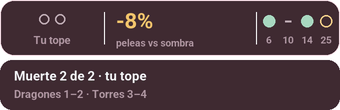
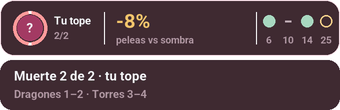
Sombra con los renders del lienzo «Base LOL»
Los renders de Overlay_Vino entran a la barra Sombra sin cambiar qué
significa cada zona y sin sus textos en imperativo («No pelees»):
- Zona Regla: tu retrato con el anillo partido en tantos tramos como tu
  tope; cada muerte del 14 al 25 apaga uno en rojo y, sobre el tope, el
  retrato se apaga (gris). Al lado, «Tu tope» y la cuenta (0/2).
- Zona Sombra: el minion caster (o espadas desde el 14) en un anillo que
  se llena hacia tu sombra; el número con signo al lado y la etiqueta se
  achica antes de cortarse. Sin sombra, el número y el trazo de antes.
- lienzo.pintar recibe icono() (la caché de imágenes de HTC); la franja
  ya lo pasa en su proceso. Referencias rehechas; prueba de que se usan.

797 pruebas OK; 49 replays OK; humo del .exe con franja OK; visto en
pantalla con dev_franja.

Changed region(s): [[0.0294, 0.0818, 0.2647, 0.4091], [0.3235, 0.3273, 0.5882, 0.4364], [0.3529, 0.1091, 0.4706, 0.2727]]

diff --git a/scripts/lienzo.py b/scripts/lienzo.py
@@ -1,7 +1,7 @@
 """El dibujo de la franja Sombra: una barra de 340×56 (a 1080p) con 3 zonas que nunca cambian de lugar ni de significado
 (regla · sombra · marcas), más el renglón (340×28) o el panel al morir (340×76) pegados debajo. Pillow, a 2× y reducido.
 Recibe la escena de momentos.paso y no decide nada: solo dibuja."""
-from overlay import ROSA, ROSA2, ROJO, SALVIA, ORO, TXT, ETQ, _fuente
+from overlay import ROSA, ROSA2, ROJO, SALVIA, ORO, TXT, ETQ, _fuente, _png, _retrato
 
 ANCHO, ALTO, RENGLON, PANEL, SEP = 340, 56, 28, 50, 4
 CARTA_W, CARTA_H = 420, 104  # la carta de la pantalla de carga: 3 renglones al centro abajo (4 con el plan de rol: +24)
@@ -18,8 +18,9 @@ def alto(escena):
     return ALTO + SEP + RENGLON if escena.get("renglon") else ALTO
 
 
-def pintar(escena, esc=1.0):
-    """RGBA de ANCHO×alto(escena) por esc."""
+def pintar(escena, esc=1.0, icono=None):
+    """RGBA de ANCHO×alto(escena) por esc. icono(tipo, nombre) -> PNG: los renders del lienzo «Base LOL» (tu retrato y el minion
+    caster); sin él, la inicial del campeón y el anillo solo."""
     from PIL import Image, ImageDraw
     S = 2; k = lambda v: round(v * esc * S)
     W, H = round(ANCHO * esc), round(alto(escena) * esc)
@@ -28,21 +29,35 @@ def pintar(escena, esc=1.0):
     for x in (Z1, Z2): d.line((k(x), k(12), k(x), k(ALTO - 12)), fill=(255, 255, 255, 28), width=max(1, k(1)))
     f11, f10 = _fuente(k(11)), _fuente(k(10))
 
-    r = escena["regla"]  # 1. Regla: una ficha por muerte de tu tope; se apaga una con cada muerte del tramo
-    n, fx = max(1, min(5, r["tope"])), k(10)
-    x0 = k(Z1 / 2) - (n * fx + (n - 1) * k(6)) / 2
+    cy, R = k(ALTO / 2), k(17)
+    r = escena["regla"]  # 1. Regla: tu retrato con el anillo partido en tramos (render «MIN 14–25»); cada muerte del tramo apaga uno
+    cx, n = k(30), max(1, min(5, r["tope"]))
+    caja = (cx - R, cy - R, cx + R, cy + R); paso = 360 / n
+    d.ellipse(caja, outline=(255, 255, 255, 20), width=k(3))
     for i in range(n):
-        x = x0 + i * (fx + k(6)); caja = (x, k(14), x + fx, k(14) + fx)
-        if i < n - r["apagadas"]: d.ellipse(caja, fill=COL.get(r["color"], ROSA2) + (255,))
-        else: d.ellipse(caja, outline=(COL["rojo"] if r["color"] == "rojo" else GRIS) + (200,), width=max(1, k(1.5)))
-    d.text((k(Z1 / 2), k(40)), r["etq"], font=f11, fill=GRIS + (255,), anchor="mm")
+        vivo = i < n - r["apagadas"]
+        col = COL.get(r["color"], ROSA2) + (255,) if vivo and r["color"] != "rojo" else ROJO + (217,)
+        d.arc(caja, -90 + i * paso + (6 if n > 1 else 0), -90 + (i + 1) * paso - (6 if n > 1 else 0), fill=col, width=k(3.5))
+    im.alpha_composite(_retrato(escena.get("campeon"), k(26), icono, r["color"] == "rojo"), (cx - k(13), cy - k(13)))  # sobre tu tope: el retrato se apaga
+    lineas = r["etq"].split(" · ") if " · " in r["etq"] else [r["etq"], f"{r['apagadas']}/{r['tope']}"]
+    for j, t in enumerate(lineas[:2]):
+        d.text((k(54), cy + k((j - 0.5) * 15)), t, font=f11 if j == 0 else f10, fill=(TXT if j == 0 else GRIS) + (255,), anchor="lm")
 
-    s = escena["sombra"]  # 2. Sombra: número grande con signo, etiqueta y el trazo de los últimos minutos
-    f22 = _fuente(k(22))
-    d.text((k(Z1 + 12), k(21)), s["num"], font=f22, fill=COL.get(s["color"], TXT) + (255,), anchor="lm")
-    d.text((k(Z1 + 12), k(43)), s["etq"], font=f10, fill=GRIS + (255,), anchor="lm")
-    x_tr = max(k(Z1 + 64), k(Z1 + 12) + d.textlength(s["num"], font=f22) + k(10))  # el trazo nunca pisa el número
-    if s.get("trazo") and x_tr < k(Z2 - 40): _trazo(d, s["trazo"], (x_tr, k(13), k(Z2 - 10), k(29)), k)
+    s = escena["sombra"]  # 2. Sombra: el minion (o las espadas desde el 14) en un anillo que se llena hacia tu sombra; el número con signo
+    x_txt = Z1 + 12
+    if s.get("icono"):
+        cx = k(Z1 + 30); caja = (cx - R, cy - R, cx + R, cy + R)
+        d.ellipse(caja, outline=(255, 255, 255, 26), width=k(3))
+        if s.get("anillo"): d.arc(caja, -90, -90 + 360 * max(0.0, min(1.0, s["anillo"])), fill=COL.get(s["color"], ROSA2) + (255,), width=k(3))
+        if s["icono"] == "minion" and (ic := _png(icono, "minion", "caster", k(28))): im.alpha_composite(ic, (cx - k(14), cy - k(14)))
+        elif s["icono"] == "espadas" or s["icono"] == "minion":  # sin el render: dos espadas cruzadas
+            for (x1, y1), (x2, y2) in (((-7, 7), (7, -7)), ((-7, -7), (7, 7))): d.line((cx + k(x1), cy + k(y1), cx + k(x2), cy + k(y2)), fill=ROSA2 + (255,), width=k(2))
+        x_txt = Z1 + 56
+    d.text((k(x_txt), k(21)), s["num"], font=_fuente(k(20)), fill=COL.get(s["color"], TXT) + (255,), anchor="lm")
+    px = 10
+    while px > 8 and d.textlength(s["etq"], font=_fuente(k(px))) > k(Z2 - 6 - x_txt): px -= 1  # «peleas vs sombra de mid» cabe sin cortarse
+    d.text((k(x_txt), k(40)), s["etq"], font=_fuente(k(px)), fill=GRIS + (255,), anchor="lm")
+    if s.get("trazo") and not s.get("icono"): _trazo(d, s["trazo"], (k(Z1 + 72), k(13), k(Z2 - 10), k(29)), k)  # sin anillo, el trazo de antes
 
     roja = r["color"] == "rojo"  # 3. Marcas: solo un elemento rojo a la vez en toda la barra
     for i, m in enumerate(escena["marcas"]):

diff --git a/scripts/momentos.py b/scripts/momentos.py
@@ -154,11 +154,13 @@ def _zona_sombra(e, foto, g, t):
         s = _curva(sb["cs"], t)
         if s is None or _cs(foto) is None: return {"num": "—", "etq": f"CS vs {de}", "color": "gris", "trazo": None}
         d = round((_cs(foto) - s) / 5) * 5  # en pasos de 5: el CS en vivo no da más precisión
-        return {"num": f"{d:+d}" if d else "=", "etq": f"CS vs {de}", "color": "salvia" if d >= 0 else "oro", "trazo": trazo}
+        return {"num": f"{d:+d}" if d else "=", "etq": f"CS vs {de}", "color": "salvia" if d >= 0 else "oro", "trazo": trazo,
+                "icono": "minion", "anillo": round(min(1.0, _cs(foto) / s), 3) if s else 1.0}  # el minion en un anillo que se llena hacia tu sombra
     s, kp = _curva(sb["kp"], t), foto.get("participacion")
     if s is None or kp is None: return {"num": "—", "etq": f"peleas vs {de}", "color": "gris", "trazo": None}
     d = round((kp - s) * 100)
-    return {"num": f"{d:+d}%" if d else "=", "etq": f"peleas vs {de}", "color": "salvia" if d >= 0 else "oro", "trazo": trazo}
+    return {"num": f"{d:+d}%" if d else "=", "etq": f"peleas vs {de}", "color": "salvia" if d >= 0 else "oro", "trazo": trazo,
+            "icono": "espadas", "anillo": round(min(1.0, kp / s), 3) if s else 1.0}
 
 
 ROL = {"TOP": "top", "JUNGLE": "jungla", "MIDDLE": "mid", "BOTTOM": "bot", "UTILITY": "support"}
@@ -275,7 +277,7 @@ def paso(estado, foto, guion, ahora, aj=None):
     ms = lista(g)
     proxima = next((m["id"] for m in ms if m["id"] not in e["marcas"] and m["tipo"] != "error"), None)
     cerca = lambda m: m["id"] == proxima and m["min"] - 60 <= t < m["min"]
-    escena = {"regla": _zona_regla(foto, g), "sombra": _zona_sombra(e, foto, g, t),
+    escena = {"campeon": foto.get("campeon"), "regla": _zona_regla(foto, g), "sombra": _zona_sombra(e, foto, g, t),
               "marcas": [{"id": m["id"], "min": m["min"] // 60, "etq": m["etq"], "error": m["tipo"] == "error",
                           "estado": ("sin" if e["marcas"][m["id"]] is None else e["marcas"][m["id"]]) if m["id"] in e["marcas"] else None,
                           "proxima": cerca(m), "late": cerca(m) and ahora % LATIDO_CADA < LATIDO_S} for m in ms],

diff --git a/scripts/overlay.py b/scripts/overlay.py
@@ -627,11 +627,11 @@ def correr(leer, seguir, x=0.22, y=6, registrar=lambda txt: None, icono=None, gu
         if clave == ultimo[0] and mostrada[0]: return  # nada cambió: no se repinta
         if not mostrada[0]: root.deiconify(); root.attributes("-topmost", True); mostrada[0] = True  # la ventana en capas solo se ve tras mostrarla
         gen[0] += 1; g = gen[0]  # los pasos de una animación vieja no pisan un estado nuevo ni una franja oculta
-        img = lienzo.pintar(e, esc) if sombra else pintar(e, esc, icono)
+        img = lienzo.pintar(e, esc, icono) if sombra else pintar(e, esc, icono)
         if hwnd: mostrar(hwnd, img, px, py)
         if meta and (r := meta.get("recibido")) and r != med["ult"]: med["lat"].append(time.time() - r); med["ult"] = r
         if hwnd and sombra and e.get("brillo") is not None and mostrada[0]:  # el brillo del sello se apaga a los 600 ms
-            quieta = lienzo.pintar({**e, "brillo": None}, esc); vale = lambda: gen[0] == g and mostrada[0]
+            quieta = lienzo.pintar({**e, "brillo": None}, esc, icono); vale = lambda: gen[0] == g and mostrada[0]
             root.after(int(momentos.BRILLO_S * 1000), lambda: vale() and mostrar(hwnd, quieta, px, py))
         if hwnd and e.get("tipo") in ("aviso", "igualaste", "oro14") and e["tipo"] != tipo_ant[0] and animar():  # al entrar: sacudida (aviso) y dos pulsos
             imgs = (pintar({**e, "pulso": True}, esc, icono), img)

diff --git a/pruebas/test_sombra_calidad.py b/pruebas/test_sombra_calidad.py
@@ -129,3 +129,17 @@ if __name__ == "__main__":
         REF.mkdir(exist_ok=True)
         for k in MOMENTOS: dibujar(k).save(REF / f"sombra-{k}.png"); print("rehecha", k)
     else: unittest.main()
+
+
+class Renders(unittest.TestCase):
+    def test_usa_tu_retrato_y_el_minion(self):
+        """Los renders del lienzo «Base LOL»: con icono(), tu retrato va en el medallón y el minion en el anillo de la sombra."""
+        import io
+        from PIL import Image
+        png = lambda col: (lambda b: (Image.new("RGBA", (64, 64), col).save(b, "PNG"), b.getvalue())[1])(io.BytesIO())
+        icono = lambda tipo, nombre: png((0, 0, 255, 255)) if tipo == "champion" else png((0, 255, 0, 255))
+        esc = {"campeon": "Prueba", "regla": R(0, "rosa"), "marcas": M(None, None, None, None),
+               "sombra": {"num": "+5", "etq": "CS vs sombra", "color": "salvia", "icono": "minion", "anillo": 0.8}}
+        im = lienzo.pintar(esc, 1.0, icono)
+        self.assertEqual(im.getpixel((30, 28))[:3], (0, 0, 255))  # el retrato, al centro del medallón de la zona Regla
+        self.assertEqual(im.getpixel((lienzo.Z1 + 30, 28))[:3], (0, 255, 0))  # el minion, al centro del anillo de la zona Sombra

diff --git a/CHANGELOG.md b/CHANGELOG.md
@@ -3,7 +3,7 @@
 Una línea por versión, en palabras de jugador. Lo más nuevo arriba.
 
 ## Sin publicar
-- Franja nueva, **Sombra**: en partida juegas contra tu sombra, la mediana de tus victorias con ese campeón minuto a minuto. Tres zonas que nunca cambian de lugar: tu tope de muertes, tu CS (o tus peleas desde el 14) contra tu sombra y tus 4 marcas (minutos 6, 10, 14 y 25). Se actualiza cada segundo, habla 3 veces por partida como mucho y nunca en una pelea. Al terminar ves lo que mostró y por qué calló. La pastilla de antes sigue en Ajustes como «Clásica». La franja corre en su propio proceso: si se traba, Racha sigue. Al cargar la partida ves tu carta (tu récord en el matchup, tu regla y tus marcas). Los números ya no bailan (fuente incluida). En «Abajo» respeta la escala de tu HUD. Si dices «no» dos veces a «¿Te sirvieron?», Sombra habla solo una vez por partida. Inicio muestra la racha de tu regla y cuánto te falta para graduarla. En tu primer regreso a la tienda ves a qué minuto suele regresar tu sombra; tu próxima marca late en su último minuto. En Ajustes puedes apagar cada aviso de Sombra, prender un «tic» al sellar una marca, usar el modo ahorro (lee la partida cada 3 s) y la franja recuerda dónde la dejaste en cada resolución. Tus 4 marcas ahora son tuyas: 2 salen del plan de tu rol (los momentos en que más se separan tus victorias de tus derrotas) y 2 vigilan tus errores más repetidos (muerte sin objetivo, pelea perdida sin ti, nivel abajo al 6). Un error solo pone rojo su punto, sin interrumpir; al morir, el panel te dice si fue uno de ellos. Cuando evitas un error 8 de 10 veces queda corregido y entra el siguiente; Inicio muestra tus errores corregidos y cuánto te falta.
+- Franja nueva, **Sombra**: en partida juegas contra tu sombra, la mediana de tus victorias con ese campeón minuto a minuto. Tres zonas que nunca cambian de lugar: tu tope de muertes, tu CS (o tus peleas desde el 14) contra tu sombra y tus 4 marcas (minutos 6, 10, 14 y 25). Se actualiza cada segundo, habla 3 veces por partida como mucho y nunca en una pelea. Al terminar ves lo que mostró y por qué calló. La pastilla de antes sigue en Ajustes como «Clásica». La franja corre en su propio proceso: si se traba, Racha sigue. Al cargar la partida ves tu carta (tu récord en el matchup, tu regla y tus marcas). Los números ya no bailan (fuente incluida). En «Abajo» respeta la escala de tu HUD. Si dices «no» dos veces a «¿Te sirvieron?», Sombra habla solo una vez por partida. Inicio muestra la racha de tu regla y cuánto te falta para graduarla. En tu primer regreso a la tienda ves a qué minuto suele regresar tu sombra; tu próxima marca late en su último minuto. En Ajustes puedes apagar cada aviso de Sombra, prender un «tic» al sellar una marca, usar el modo ahorro (lee la partida cada 3 s) y la franja recuerda dónde la dejaste en cada resolución. Tus 4 marcas ahora son tuyas: 2 salen del plan de tu rol (los momentos en que más se separan tus victorias de tus derrotas) y 2 vigilan tus errores más repetidos (muerte sin objetivo, pelea perdida sin ti, nivel abajo al 6). Un error solo pone rojo su punto, sin interrumpir; al morir, el panel te dice si fue uno de ellos. Cuando evitas un error 8 de 10 veces queda corregido y entra el siguiente; Inicio muestra tus errores corregidos y cuánto te falta. La barra usa los renders del lienzo: tu retrato con el anillo partido en tramos (cada muerte apaga uno; sobre tu tope, el retrato se apaga) y el minion caster en un anillo que se llena hacia tu sombra (desde el 14, espadas para tus peleas).
 - Un timeline dañado ya no tumba la selección de campeón ni la revisión post-partida, y «Tu última partida» se salta un archivo roto en vez de quedar vacía.
 - Racha es mucho más rápida: la selección de campeón carga en 0.15 s (antes 4 s), tu perfil se arma en medio segundo (antes 7 s) y la revisión post-partida sale en 0.4 s (antes 5 s). Cada partida se procesa una sola vez.
 - Un archivo de partida dañado ya no rompe la selección de campeón ni las builds: se salta.
